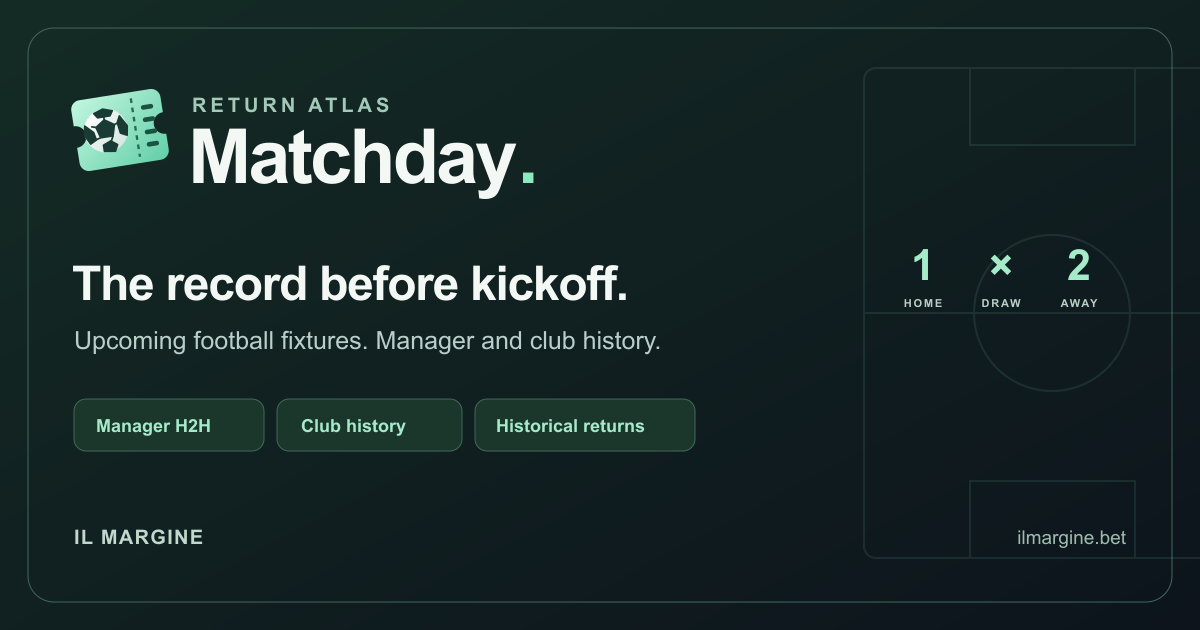
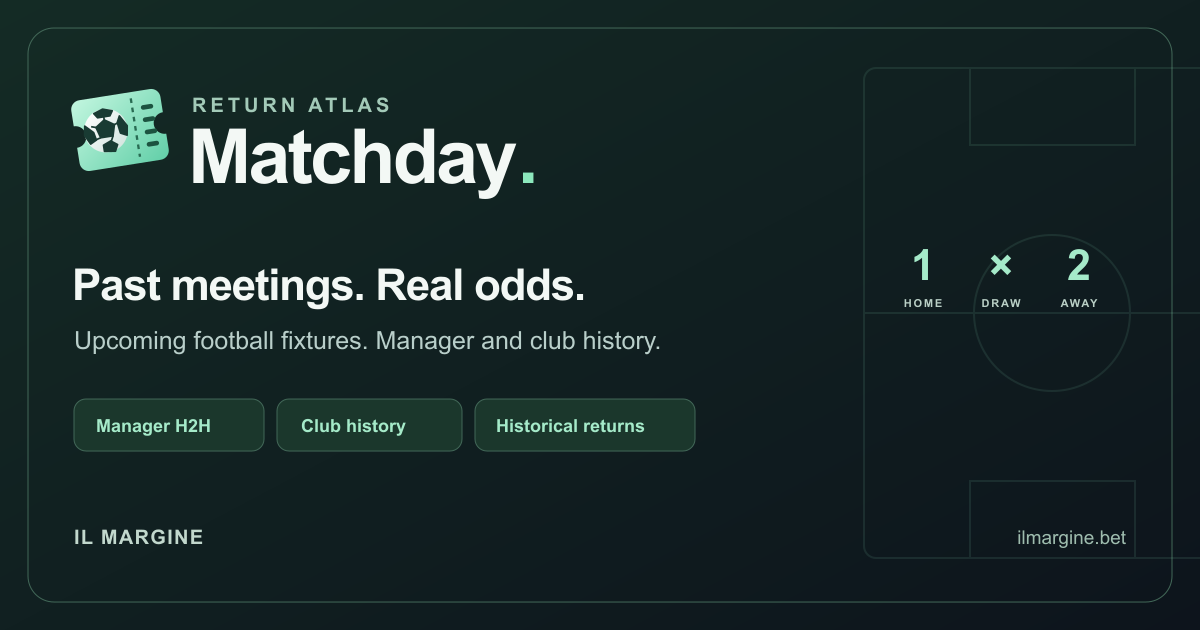
Prepare Matchday launch with homepage feature and practical explanations

Changed region(s): [[0.0617, 0.4222, 0.5242, 0.5127]]

diff --git a/src/app/football-atlas/fixtures/page.tsx b/src/app/football-atlas/fixtures/page.tsx
@@ -6,6 +6,7 @@ import FixtureBoard from '@/components/football-atlas/fixtures/FixtureBoard';
 import MatchdayIcon from '@/components/football-atlas/fixtures/MatchdayIcon';
 import type { FixtureBoard as Board } from '@/components/football-atlas/fixtures/types';
 import snapshot from '@/data/atlas-fixtures.json';
+import { matchdayFaqs } from '@/data/matchday-faq';
 import portraitCredits from '../../../../public/manager-atlas/portraits.json';
 import './fixtures.css';
 
@@ -13,13 +14,14 @@ export const dynamic = 'force-static';
 export const revalidate = false;
 const url = 'https://ilmargine.bet/football-atlas/fixtures';
 const title = 'Return Atlas Matchday | Upcoming Fixtures & H2H Returns';
-const description = 'Explore upcoming football fixtures through manager and club head to head records. Compare historical home, draw and away returns in Return Atlas Matchday.';
+const description = 'Compare upcoming football fixtures with past manager and club meetings. Explore home win, draw and away win returns, and find outcomes with positive history in both records.';
 export const metadata: Metadata = { title, description, alternates: { canonical: url }, robots: { index: true, follow: true }, openGraph: { title, description, url, type: 'website', images: [{ url: 'https://ilmargine.bet/football-atlas/matchday/share-v1.png', width: 1200, height: 630, alt: 'Return Atlas Matchday: upcoming football fixtures, manager H2H and club returns' }] }, twitter: { card: 'summary_large_image', title, description, images: ['https://ilmargine.bet/football-atlas/matchday/share-v1.png'] } };
 
 export default function FixturesPage() {
   const used = new Set(snapshot.fixtures.flatMap(f => [f.home.manager?.id, f.away.manager?.id]));
   const credits = Object.entries(portraitCredits).filter(([id]) => used.has(id));
   return <><main className="atlas-fixtures">
+    <script type="application/ld+json" dangerouslySetInnerHTML={{ __html: JSON.stringify({ '@context': 'https://schema.org', '@type': 'FAQPage', mainEntity: matchdayFaqs.map(({ question, answer }) => ({ '@type': 'Question', name: question, acceptedAnswer: { '@type': 'Answer', text: answer } })) }) }} />
     <header className="af-hero">
       <nav className="af-breadcrumb" aria-label="Atlas navigation">
         <Link href="/football-atlas" prefetch={false}>Return Atlas Football</Link><span>/</span><span aria-current="page">Matchday</span>
@@ -31,8 +33,9 @@ export default function FixturesPage() {
             <Image src="/football-atlas/matchday/mark-v1.svg" alt="" width={58} height={58} unoptimized priority />
             <span><small>RETURN ATLAS</small><strong>Matchday<span>.</span></strong></span>
           </div>
-          <h1>The record<br />before <em>kickoff.</em></h1>
-          <p className="af-intro">See who’s playing. Explore their history.<br className="af-desktop-break" /> Compare manager and club head to head records, with the returns behind every matchup.</p>
+          <h1>Upcoming fixtures.<br /><em>Past meetings. Real odds.</em></h1>
+          <p className="af-intro">Before these teams meet again, see what happened last time. Compare previous meetings between their clubs and managers, and what backing a win or draw returned at the recorded odds.</p>
+          <p className="af-intro af-intro-filter">Want to narrow it down? <strong>Both positive</strong> finds the same outcome with profitable history in both records. Open any fixture to see the matches behind the numbers.</p>
           <div className="af-hero-tags"><span>Five European leagues</span><span>Managers &amp; clubs</span><a href="#fixture-guide">Read the board ↓</a></div>
         </div>
         <div className="af-hero-art" aria-hidden="true">
@@ -45,6 +48,7 @@ export default function FixturesPage() {
       </div>
     </header>
     <FixtureBoard board={snapshot as Board} />
+    <section className="af-guide af-faq" aria-labelledby="matchday-faq-title"><p className="af-eyebrow">USING MATCHDAY</p><h2 id="matchday-faq-title">Two questions to get started.</h2>{matchdayFaqs.map(({ question, answer }) => <details key={question}><summary>{question}</summary><p>{answer}</p></details>)}</section>
     <section className="af-guide" id="fixture-guide"><p className="af-eyebrow">A QUICK READ</p><h2>Know what you’re looking at.</h2><div className="af-guide-grid"><div><span className="af-guide-icon"><MatchdayIcon kind="histories" /></span><h3>One fixture. Two histories.</h3><p>Manager history follows these two coaches across clubs. Club history follows these two teams whoever was in charge. Shared meetings appear in both records, so the two returns are not independent evidence.</p></div><div><span className="af-guide-icon"><MatchdayIcon kind="outcomes" /></span><h3>Three ways to read the return.</h3><p>Home win follows today’s home side or its manager through previous meetings. Draw backs the draw. Away win follows today’s away side or its manager. Historical venues can differ. Each return uses the actual recorded price.</p></div><div><span className="af-guide-icon"><MatchdayIcon kind="returns" /></span><h3>The numbers behind the colour.</h3><p>Mint highlights positive historical ROI from at least three meetings. Both positive keeps fixtures where manager and club history are positive on the same outcome, with at least three meetings in each. Shared meetings are shown so you can see where the records overlap. These are browsing aids, not forecasts. A unit is a fixed stake: +2u from ten 1u bets is +20% ROI. Expand a card to see exactly which matches produced it.</p></div></div><details><summary>What history is covered?</summary><p>Priced matches in the Premier League, Serie A, La Liga, Bundesliga and Ligue 1 from 2012/13 onwards. Cups, European competitions, missing prices and unresolved matches are excluded. These are the meetings in our archive, not every meeting in a manager’s career. The full available archive is used consistently rather than selecting each pairing’s most profitable period.</p><p>Historical prices are closing or verified last prematch quotes as labelled in each match list. They are not current offers. Histories include only result dates before the snapshot date. Upcoming appointments are checked against current rosters and can change before kickoff. Schedule checks expire after seven days, when highlights and positive filters pause until the next refresh. This timer checks the schedule snapshot, not the age of the last league result. The archive coverage dates are shown separately above the fixtures.</p></details><details><summary>What does “odds suggested” mean?</summary><p>We convert all three recorded prices into probabilities and remove their combined margin. Adding those probabilities gives the number of wins or draws the historical market expected. It provides context alongside the actual count and ROI, without predicting the next match.</p></details><details className="af-photo-credits"><summary>Photo credits</summary><ul>{credits.map(([id, photo]) => <li key={id}><a href={photo.source} target="_blank" rel="noopener noreferrer">{photo.name}</a> · {photo.credit} · <a href={photo.licenseUrl} target="_blank" rel="noopener noreferrer">{photo.license}</a><small>{photo.changes}</small></li>)}</ul></details><p className="af-final-note">Past returns at past prices. Explore the evidence before drawing a conclusion.</p></section>
   </main><Footer /></>;
 }

diff --git a/src/components/matchday-promo.css b/src/components/matchday-promo.css
@@ -1,0 +1,4 @@
+.matchday-promo{display:grid;grid-template-columns:76px minmax(0,1fr) auto;align-items:center;gap:24px;margin:24px 0;padding:26px 28px;border:1px solid #54806c;border-radius:18px;background:radial-gradient(ellipse at 100% 0,#70d7a91c,transparent 65%),linear-gradient(120deg,#18382d,#111e23);color:#eff9f3;text-decoration:none;box-shadow:inset 0 1px #c7ffe80a;transition:border-color .15s,background .15s}
+.matchday-promo:hover{border-color:#9fe6c6;background:#1b342d}.matchday-promo:focus-visible{outline:2px solid #b9f4d8;outline-offset:5px}.matchday-promo-mark{display:block;width:76px;height:76px;object-fit:contain}.matchday-promo-copy{display:grid;gap:7px;min-width:0}.matchday-promo-copy>small{color:#add6c2;font-size:10px;font-weight:700;letter-spacing:.1em;text-transform:uppercase}.matchday-promo-copy>strong{font-size:36px;line-height:1.1;letter-spacing:-.04em;font-weight:750}.matchday-promo-copy>strong>span{color:#8ce8bd}.matchday-promo-copy>span{max-width:630px;font-size:13px;line-height:1.75;color:#c2d7cc}.matchday-promo-action{display:grid;gap:17px;justify-items:center}.matchday-promo-outcomes{display:flex;gap:20px}.matchday-promo-outcomes>span{display:grid;gap:3px;text-align:center;font-size:9px;letter-spacing:.07em;text-transform:uppercase;color:#afcdbd}.matchday-promo-outcomes b{font-size:25px;line-height:1;color:#c5f2dc}.matchday-promo-cta{display:flex;align-items:center;gap:20px;padding:12px 16px;border:1px solid #92dcb8;border-radius:9px;color:#102e20;background:#a5e8c7;font-size:12px;font-weight:750;white-space:nowrap}.matchday-promo-cta>span{font-size:17px}.matchday-promo-compact{grid-template-columns:54px minmax(0,1fr) auto;padding:22px;gap:18px}.matchday-promo-compact .matchday-promo-mark{width:54px;height:54px}.matchday-promo-compact .matchday-promo-copy>strong{font-size:26px}
+@media(max-width:700px){.matchday-promo,.matchday-promo-compact{grid-template-columns:52px minmax(0,1fr);gap:16px;padding:20px}.matchday-promo-mark,.matchday-promo-compact .matchday-promo-mark{width:52px;height:52px;align-self:start;margin-top:5px}.matchday-promo-copy>strong{font-size:31px}.matchday-promo-copy>span{font-size:12px}.matchday-promo-action{grid-column:1/-1;display:flex;justify-content:space-between;gap:16px;flex-wrap:wrap}.matchday-promo-outcomes{gap:17px}.matchday-promo-outcomes b{font-size:20px}.matchday-promo-compact .matchday-promo-action{justify-content:flex-end}.matchday-promo-copy>small{font-size:9px;line-height:1.6}}
+@media(prefers-reduced-motion:reduce){.matchday-promo{transition:none}}

diff --git a/src/app/tennis-matchup/page.tsx b/src/app/tennis-matchup/page.tsx
@@ -2,6 +2,7 @@ import type { Metadata } from "next";
 import Image from "next/image";
 import Link from "next/link";
 import Footer from "@/components/Footer";
+import MatchdayPromo from "@/components/MatchdayPromo";
 import { BASE_URL } from "@/lib/config";
 import { MATCHUP_FAQS } from "@/lib/tennis-matchup-faq";
 import release from "@/data/tennis-matchup-release.json";
@@ -29,6 +30,7 @@ export default function TennisMatchupPage(){
     <div className="intro-note"><span className="note-dot"/><p><strong>Start with two players.</strong> Compare their profiles against all opponents, or switch to their meetings against each other. Open a match to inspect the numbers behind it.</p></div>
     <div className="matchup-freshness"><span>Snapshot <time dateTime={release.checkedAt}>{readable(release.checkedAt)}</time></span><span>Latest result <time dateTime={release.through}>{readable(release.through)}</time></span><span>{release.matches.toLocaleString("en-GB")} archive matches · 2022 onward</span></div>
     <MatchupClient indexUrl={release.indexUrl}/>
+    <MatchdayPromo compact />
     <noscript><p>Enable JavaScript to select players and compare their records. The guide, coverage details and FAQs below are available without it.</p></noscript>
     <section className="matchup-faq" id="faq" aria-labelledby="matchup-faq-title"><p className="eyebrow">GET MORE FROM THE NUMBERS</p><h2 id="matchup-faq-title">Tennis Matchup Lab FAQs</h2><p>What the tool shows, how to use the filters, and where the evidence ends.</p>{MATCHUP_FAQS.map(({question,answer})=><details key={question}><summary>{question}</summary><p>{answer}</p></details>)}</section>
     <section className="matchup-next"><h2>Keep the price and the record in view.</h2><p>Compare playing profiles here, investigate historical betting returns in Return Atlas, or read our published tennis selections.</p><nav aria-label="Related tennis research"><Link prefetch={false} href="/return-atlas">Tennis Return Atlas →</Link><Link prefetch={false} href="/tennis-tips">Tennis tips & results →</Link><Link prefetch={false} href="/resources/odds-value-stakes">Understand odds and value →</Link></nav></section>

diff --git a/src/app/sitemap.ts b/src/app/sitemap.ts
@@ -36,7 +36,7 @@ export default async function sitemap(): Promise<MetadataRoute.Sitemap> {
     { url: `${BASE_URL}/football-atlas/fixtures`, lastModified: new Date(fixtureBoard.checkedAt), changeFrequency: "weekly", priority: 0.8 },
     { url: `${BASE_URL}/manager-atlas`, lastModified: new Date(`${managerRelease.through}T12:00:00Z`), changeFrequency: "weekly", priority: 0.8 },
     { url: `${BASE_URL}/tennis-matchup`, lastModified: new Date(`${matchupRelease.checkedAt}T12:00:00Z`), changeFrequency: "weekly", priority: 0.8 },
-    { url: BASE_URL, lastModified: new Date("2026-09-24T12:00:00Z"), changeFrequency: "daily", priority: 1 },
+    { url: BASE_URL, lastModified: new Date("2026-10-01T12:00:00Z"), changeFrequency: "daily", priority: 1 },
     {
       url: `${BASE_URL}/tennis-tips`,
       lastModified: tipSeoState.latestByMarket.tennis ?? STATIC_LAST_MODIFIED,
@@ -107,7 +107,7 @@ export default async function sitemap(): Promise<MetadataRoute.Sitemap> {
       ? [{ url: `${BASE_URL}/fair-odds`, lastModified: STATIC_LAST_MODIFIED, changeFrequency: "daily" as const, priority: 0.8 }]
       : []),
     { url: `${BASE_URL}/the-edge`, lastModified: REVIEW_LAST_MODIFIED, changeFrequency: "monthly", priority: 0.8 },
-    { url: `${BASE_URL}/faq`, lastModified: REVIEW_LAST_MODIFIED, changeFrequency: "monthly", priority: 0.7 },
+    { url: `${BASE_URL}/faq`, lastModified: new Date("2026-10-01T12:00:00Z"), changeFrequency: "monthly", priority: 0.7 },
     { url: `${BASE_URL}/contact`, lastModified: REVIEW_LAST_MODIFIED, changeFrequency: "yearly", priority: 0.5 },
     { url: `${BASE_URL}/llms.txt`, lastModified: STATIC_LAST_MODIFIED, changeFrequency: "monthly", priority: 0.4 },
     { url: `${BASE_URL}/llms-full.txt`, lastModified: STATIC_LAST_MODIFIED, changeFrequency: "monthly", priority: 0.3 },

diff --git a/src/components/ReturnAtlasFeature.tsx b/src/components/ReturnAtlasFeature.tsx
@@ -1,12 +1,14 @@
 import Image from 'next/image';
 import Link from 'next/link';
 import SportIcon from './SportIcon';
+import MatchdayPromo from './MatchdayPromo';
 import './return-atlas-feature.css';
 
 /** Lightweight, server-rendered promotion: no archive download or chart runtime. */
 export default function ReturnAtlasFeature() {
     return <section id="return-atlas" className="home-atlas" aria-labelledby="home-atlas-title"><div className="home-atlas-inner">
         <header><div><p className="home-atlas-eyebrow">Research beyond the picks</p><h2 id="home-atlas-title">Return <span>Atlas</span></h2></div><p>Explore historical betting returns at the recorded odds. Compare ROI, profit and sample size, then open the matches behind the numbers.</p></header>
+        <MatchdayPromo />
         <div className="home-atlas-editions">
             <article className="home-atlas-edition"><div className="home-atlas-status"><h3><Link href="/return-atlas" prefetch={false}><SportIcon sport="tennis" emblem className="home-atlas-sport-icon"/><span>ATP tennis betting history</span><span aria-hidden="true">↗</span></Link></h3><span>Explore now</span></div>
                 <div className="home-atlas-logo home-atlas-tennis-logo"><Image src="/return-atlas/assets/wordmark-tennis-v2.png" width={2172} height={724} alt="Return Atlas Tennis" unoptimized /></div>

diff --git a/src/app/faq/page.tsx b/src/app/faq/page.tsx
@@ -14,7 +14,7 @@ import "@/components/editorial-surfaces.css";
 export const metadata: Metadata = {
   title: "Betting FAQ: Return Atlas, Tips and Odds Explained",
   description:
-    "Answers about betting tips, changed odds, penalty takers, Return Atlas, Tennis Matchup Lab, fair odds, staking calculators and the Il Margine results record.",
+    "Answers about betting tips, Return Atlas Matchday, manager and club history, Tennis Matchup Lab, fair odds, staking calculators and the Il Margine results record.",
   alternates: {
     canonical: `${BASE_URL}/faq`,
   },
@@ -71,7 +71,7 @@ export default function FaqPage() {
             Using the picks, checking a price, reading the record. Practical answers about Il Margine and its research tools.
           </p>
 
-          <p className="text-xs text-slate-400">Reviewed <time dateTime="2026-09-26">26 September 2026</time> · Answers reflect the current public tools.</p>
+          <p className="text-xs text-slate-400">Updated <time dateTime="2026-10-01">1 October 2026</time> · Answers reflect the current public tools.</p>
           <FaqBrowser sections={sections} legacyAnchors={legacyAnchors} />
 
           <div className="mt-14 rounded-xl bg-slate-800/50 border border-slate-700/50 p-6 text-center shadow-sm">

diff --git a/src/components/MatchdayPromo.tsx b/src/components/MatchdayPromo.tsx
@@ -1,0 +1,19 @@
+import Image from 'next/image';
+import Link from 'next/link';
+import './matchday-promo.css';
+
+/** Static cross-link. No fixture data or client runtime required. */
+export default function MatchdayPromo({ compact = false }: { compact?: boolean }) {
+  return <Link href="/football-atlas/fixtures" prefetch={false} className={`matchday-promo${compact ? ' matchday-promo-compact' : ''}`}>
+    <Image className="matchday-promo-mark" src="/football-atlas/matchday/mark-v1.svg" width={76} height={76} alt="" unoptimized />
+    <span className="matchday-promo-copy">
+      <small>Return Atlas · Upcoming football</small>
+      <strong>Matchday<span>.</span></strong>
+      <span>See the next fixtures through their manager and club history. Compare what backing a win or draw returned in previous meetings.</span>
+    </span>
+    <span className="matchday-promo-action">
+      {!compact && <span className="matchday-promo-outcomes" aria-hidden="true"><span><b>1</b>Home</span><span><b>×</b>Draw</span><span><b>2</b>Away</span></span>}
+      <span className="matchday-promo-cta">Explore Matchday <span aria-hidden="true">↗</span></span>
+    </span>
+  </Link>;
+}

diff --git a/src/data/matchday-faq.ts b/src/data/matchday-faq.ts
@@ -1,0 +1,10 @@
+export const matchdayFaqs = [
+  {
+    question: 'How do I use Return Atlas Matchday?',
+    answer: 'Choose a league or search for a team to find an upcoming fixture. Each card shows two records: previous meetings between the managers, including at other clubs, and previous meetings between the clubs. Compare the historical returns for a home win, draw or away win, then open the card to see the matches, results and recorded odds behind each figure. Every calculation uses the same stake per match.',
+  },
+  {
+    question: 'What does Both positive mean?',
+    answer: 'It finds fixtures where the same outcome was profitable in both records, with at least three previous meetings in each. For example, a draw must show positive ROI in both the manager and club history. Positive draw returns in one and positive away win returns in the other do not qualify. Some matches can appear in both records, so the returns are not added together. It is a way to find history worth investigating, not a prediction or a bet recommendation. The odds available now still matter.',
+  },
+] as const;

diff --git a/src/app/return-atlas/page.tsx b/src/app/return-atlas/page.tsx
@@ -5,6 +5,7 @@ import Link from "next/link";
 import Footer from "@/components/Footer";
 import PageHomeLink from "@/components/PageHomeLink";
 import ReturnAtlasClient from "@/components/return-atlas/ReturnAtlasClient";
+import MatchdayPromo from "@/components/MatchdayPromo";
 import release from "@/data/return-atlas-release.json";
 import "./return-atlas.css";
 
@@ -49,6 +50,7 @@ export default function ReturnAtlasPage() {
         <Link href="/tennis-matchup" prefetch={false}>Open Matchup Lab →</Link>
       </aside>
       <ReturnAtlasClient indexUrl={release.indexUrl} detailsBase={release.detailsBase} version={release.version} checkedAt={release.checkedAt} />
+      <MatchdayPromo compact />
       <section className="atlas-about" aria-label="About Return Atlas">
         <p className="about-eyebrow">THE RECORD BEHIND THE RETURNS</p>
         <h2>ATP tennis betting history.<br />Every player has a different story.</h2>

diff --git a/src/app/football-atlas/fixtures/fixtures.css b/src/app/football-atlas/fixtures/fixtures.css
@@ -36,3 +36,5 @@
 
 .af-board-note{margin-bottom:8px}
 @media(max-width:640px){.af-record-label{display:grid;grid-template-columns:16px 1fr auto;gap:5px}.af-record-label>span{grid-column:3;margin:0}.af-record-label .af-record-years{grid-column:2;font-size:10px}.af-record-label small{grid-column:3;grid-row:2;margin:0;font-size:10px}}
+
+.af-intro-filter{font-size:13px;line-height:1.8;margin-top:14px;max-width:530px;color:#afc7bb}.af-intro-filter strong{color:#a7ebc9;font-weight:650}.af-faq{margin-bottom:38px}.af-hero h1 em{font-size:.82em}

diff --git a/docs/faq-content.md b/docs/faq-content.md
@@ -1,6 +1,6 @@
 # Il Margine FAQ
 
-Reviewed 26 September 2026.
+Updated 1 October 2026.
 
 ## SECTION 1: Getting started
 
@@ -201,6 +201,14 @@ In the UK, [GamCare](https://www.gamcare.org.uk/) provides gambling support and 
 **A:** Do not rely on betting to pay essential expenses. The public record describes past outcomes; it cannot promise income. If you need a bet to win to meet a bill, step away from it and seek support if needed.
 
 ## SECTION 9: Return Atlas
+
+### Q: How do I use Return Atlas Matchday?
+
+**A:** Open [Return Atlas Matchday](/football-atlas/fixtures), then choose a league or search for a team to find an upcoming fixture. Each card shows two records: previous meetings between the managers, including at other clubs, and previous meetings between the clubs. Compare the historical returns for a home win, draw or away win, then open the card to see the matches, results and recorded odds behind each figure. Every calculation uses the same stake per match.
+
+### Q: What does Both positive mean?
+
+**A:** It finds fixtures where the same outcome was profitable in both records, with at least three previous meetings in each. For example, a draw must show positive ROI in both the manager and club history. Positive draw returns in one and positive away win returns in the other do not qualify. Some matches can appear in both records, so the returns are not added together. It is a way to find history worth investigating, not a prediction or a bet recommendation. The odds available now still matter.
 
 ### Q: What is Return Atlas, and is it the same as your track record?
 
